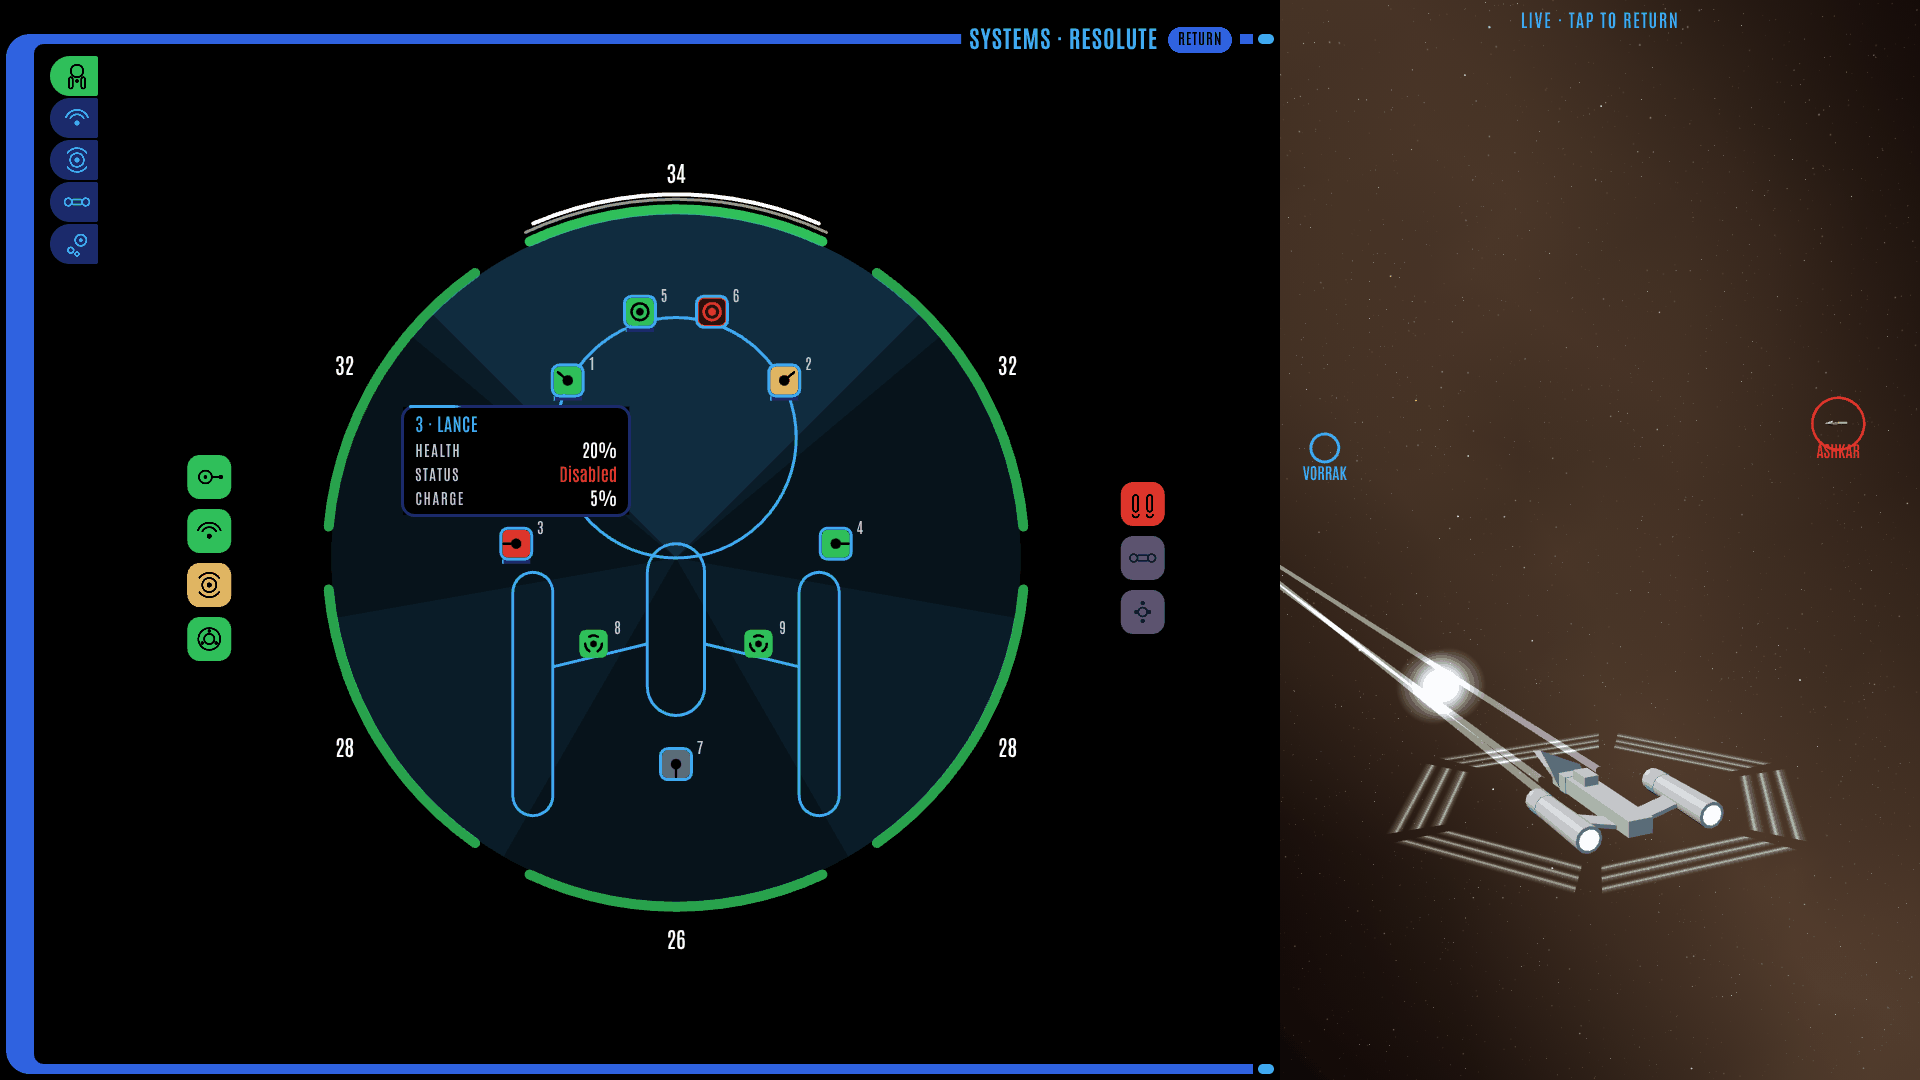
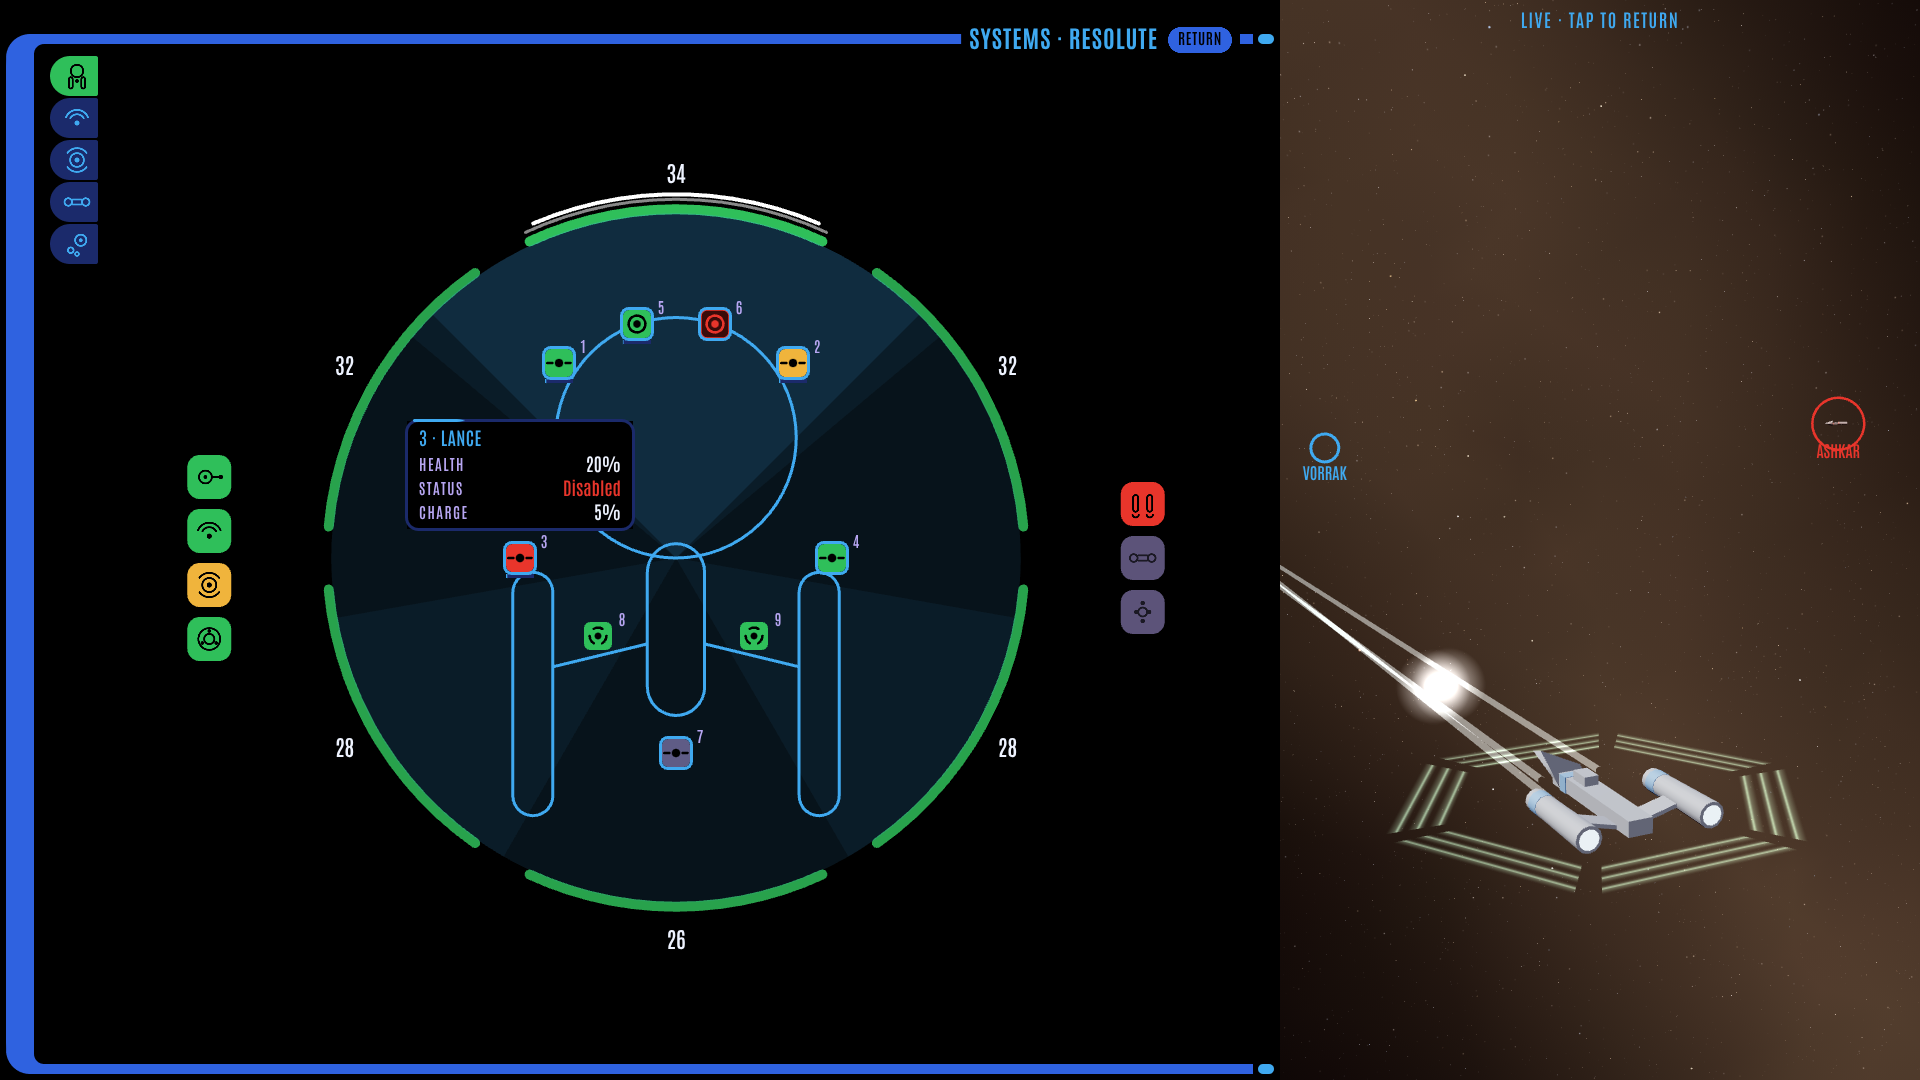
Battle console v15: weapon mounts on a grid, lance glyph without orientation
Claude-Session: https://claude.ai/code/session_01RGPQuqAYNNJKpzbbbZ3BfB

diff --git a/docs/mockups/battle-console.html b/docs/mockups/battle-console.html
@@ -1374,8 +1374,10 @@ function statusBox(x, bx, by, s2, st, rad) {
 // One glyph per weapon type, in Concord's open circles and arcs (nothing pointed).
 function weaponGlyph(x, m, mx, my, r, col) {
   x.fillStyle = col; x.strokeStyle = col; x.lineWidth = Math.max(1.8, r * 0.3);
-  const kind = WEAPONS[m.w].kind, a = -P / 2 + m.arc[0] * DEG;
-  if (kind === 'beam') { x.beginPath(); x.arc(mx, my, r * 0.62, 0, 2 * P); x.fill(); x.beginPath(); x.moveTo(mx + Math.cos(a) * r * 0.62, my + Math.sin(a) * r * 0.62); x.lineTo(mx + Math.cos(a) * r * 1.55, my + Math.sin(a) * r * 1.55); x.stroke(); }
+  const kind = WEAPONS[m.w].kind;
+  // Every glyph is fixed, never turned to its mount's arc (owner: "Phaser shouldn't have orientation because that would
+  // be difficult to standardize for all weapon icons"): the lance is a dot with a short beam either side.
+  if (kind === 'beam') { x.beginPath(); x.arc(mx, my, r * 0.5, 0, 2 * P); x.fill(); x.beginPath(); x.moveTo(mx - r * 1.4, my); x.lineTo(mx - r * 0.75, my); x.moveTo(mx + r * 0.75, my); x.lineTo(mx + r * 1.4, my); x.stroke(); }
   else if (kind === 'torpedo') { x.beginPath(); x.arc(mx, my, r * 0.45, 0, 2 * P); x.fill(); x.beginPath(); x.arc(mx, my, r, 0, 2 * P); x.stroke(); }
   else if (kind === 'bolt') { for (const d of [-1, 1]) { x.beginPath(); x.arc(mx + d * r * 0.5, my, r * 0.48, 0, 2 * P); x.fill(); } }
   else if (kind === 'missile') { x.beginPath(); x.roundRect(mx - r * 0.42, my - r, r * 0.84, r * 2, r * 0.42); x.fill(); }
@@ -1427,14 +1429,17 @@ function drawSSD(x, w, h, s, big, own) {
   // selected mount is ringed in Sky.
   // clearance: the box, its selection ring (4 px each side) and a gap of 3 px, so not even the rings touch
   const mounts = [], mb = big ? 28 : 17, clear = mb + 11;
-  // Boxes never overlap (owner: "make sure weapon icons dont overlap!"): mounts placed closer than a box are pushed
-  // apart, a few passes, the same way every frame.
-  const pos = s.mounts.map((m) => [cx + m.x * L * 0.9, cy - m.y * L]);
-  for (let it = 0; it < 60; it++) for (let a2 = 0; a2 < pos.length; a2++) for (let b2 = a2 + 1; b2 < pos.length; b2++) {
-    const dx = pos[b2][0] - pos[a2][0], dy = pos[b2][1] - pos[a2][1];
-    if (Math.abs(dx) >= clear || Math.abs(dy) >= clear) continue;
-    if (clear - Math.abs(dx) <= clear - Math.abs(dy)) { const pu = (clear - Math.abs(dx)) / 2 * (dx < 0 ? -1 : 1) || clear / 2; pos[a2][0] -= pu; pos[b2][0] += pu; }
-    else { const pu = (clear - Math.abs(dy)) / 2 * (dy < 0 ? -1 : 1) || clear / 2; pos[a2][1] -= pu; pos[b2][1] += pu; }
+  // Mounts sit on a grid (owner, 2026-11-01: "They don't seem to align to a grid"): one cell is a box and its
+  // clearance, centred on the ship's spine, so boxes line up in rows and columns and never overlap (owner: "make sure
+  // weapon icons dont overlap!"). Each mount takes the cell nearest its hull position, rounded the same way on both
+  // sides so a pair stays mirrored; a mount whose cell is taken moves to the nearest free one, on its own side first.
+  const snap = (v) => Math.sign(v) * Math.round(Math.abs(v) / clear), taken = new Set(), pos = [];
+  for (const m of s.mounts) {
+    const c0 = snap(m.x * L * 0.9), r0 = snap(-m.y * L), side = Math.sign(m.x), cand = [];
+    for (let dc = -3; dc <= 3; dc++) for (let dr = -3; dr <= 3; dr++) cand.push([c0 + dc, r0 + dr, Math.hypot(dc, dr) + (side && Math.sign(dc) === -side ? 0.01 : 0)]);
+    cand.sort((p1, p2) => p1[2] - p2[2]);
+    const [c, r] = cand.find(([c1, r1]) => !taken.has(c1 + ',' + r1));
+    taken.add(c + ',' + r); pos[m.i] = [cx + c * clear, cy + r * clear];
   }
   for (const m of s.mounts) {
     const [mx, my] = pos[m.i], bx = mx - mb / 2, by = my - mb / 2, st = mountStatus(s, m);
@@ -1786,7 +1791,7 @@ function uiView() {
     const tg = inBox(bx + 14, by + 44, ir[2] - 28, ir[3] - 52, (c, w, h) => drawSSD(c, w, h, t, false, false)); ssdHits('tgt', bx + 14, by + 44, tg, t, false);
   }
   if (lock) button('v.lock', lock[0], lock[1], 140, 30, 'Lock target', () => A.lock(lock[2]), { center: true });
-  LBL('Mockup 2 · Battle console · Concord · v14', vx + vw - 104, vy + vh - 20, 0, '#6f7fb4', 'right', 13);
+  LBL('Mockup 2 · Battle console · Concord · v15', vx + vw - 104, vy + vh - 20, 0, '#6f7fb4', 'right', 13);
   button('v.reset', vx + vw - 92, vy + vh - 42, 78, 30, 'Reset', A.reset, { center: true });
 }
 // Mockup only: a heavy hit on your ship from the nearest enemy, to watch the boxes change as damage lands.

diff --git a/docs/mockups/tracker.html b/docs/mockups/tracker.html
@@ -111,7 +111,7 @@ const MOCKUPS = [
     url: 'https://claude.ai/artifact/UBbAouwAU3JvcbGf6MhzLt', published: '2026-10-30', version: 5,
     summary: 'Main menu, skirmish (scenario, point budget, fleet and loadout), the campaign hex map with standees, port panels and missions, deploy, a stand-in battle, results, and back to the map.' },
   { id: 'M2', title: 'In-game UI', change: 'battle-console', page: 'docs/mockups/battle-console.html',
-    url: 'https://claude.ai/artifact/9yertq3bYQRmFiDE7N9eBs', published: '2026-11-01', version: 14,
+    url: 'https://claude.ai/artifact/9yertq3bYQRmFiDE7N9eBs', published: '2026-11-01', version: 15,
     summary: 'The battle console in the Concord skin around a live stand-in battle, desktop first: nine stations and five ship pages on narrow columns of icon tabs named on hover, the ship systems display, weapons, radar and tactical map, a speed handle, Power over Systems with the battery, and the power station\'s Reactor mode: a diagram of the core, coils and coolant loops worked by hand, with a meltdown to avoid. Every panel works and expands.' },
   { id: 'M3', title: 'Look dev', change: 'look-dev', page: 'docs/mockups/look-dev.html',
     url: '', published: '', version: 0,

diff --git a/openspec/changes/battle-console/design.md b/openspec/changes/battle-console/design.md
@@ -102,7 +102,7 @@ will be.
 the side, show subsystems, as well. Tooltips: when I hover over subsystem or weapon box: show what subsystem name is,
 health, status"). On the ship systems display (own and in the Target box, one drawing):
 
-- **A glyph per weapon type**, in Concord's open circles and arcs: lance, a dot with a short line along its arc's centre;
+- **A glyph per weapon type**, in Concord's open circles and arcs: lance, a dot with a short beam either side (fixed: no glyph turns with its mount's arc);
   pulse torpedo, a dot in a ring; disruptor, two dots; missile, a capsule; point defence, a dot in three arcs. Its colour
   is its state (offline deep, charging Signal with the charge drawn round it, ready Accord, overload Lilac, disabled or
   destroyed Alert); a selected mount is ringed in Sky.
@@ -118,8 +118,10 @@ icons here, instead of circle icons I prefer square with iconography inside", "s
 
 - The facing turned toward the enemy (yours toward your target, the target's toward you) has a **white arc** above it.
 - Mounts are **square boxes** with the weapon's glyph inside: glyph colour for its state, the box outlined in its status
-  colour when not Active, the charge as a bar under it, a Sky ring when selected. Mounts closer than a box, its selection ring and a 3 px gap are **pushed
-  apart** (a few passes, the same every frame), so no box overlaps another.
+  colour when not Active, the charge as a bar under it, a Sky ring when selected. Mounts sit on a **grid** (owner, 2026-11-01:
+  "They don't seem to align to a grid"): one cell is a box, its selection ring and a 3 px gap, centred on the ship's
+  spine. Each mount takes the cell nearest its hull position, rounded alike on both sides so pairs stay mirrored; a
+  taken cell sends it to the nearest free one, its own side first. Boxes line up in rows and columns and never overlap.
 - **Shield strength**: in the 3D view as layers, strong (over 66 %) three green bands, middling two amber, weak one
   red; on the console one band per facing in the same colour (owner: "to avoid clutter. The UI itself should display 1
   layer. Where the game should display multiple"). An empty or lowered facing is a single dark line.

diff --git a/mockup-work.md b/mockup-work.md
@@ -22,7 +22,7 @@ account and every link here is updated.
 | # | Mockup | Stage | OpenSpec change | Page | Link |
 |---|---|---|---|---|---|
 | 1 | Primary game flow | Drafted (2026-10-30, v5) | `game-flow` | `docs/mockups/game-flow.html` | https://claude.ai/artifact/UBbAouwAU3JvcbGf6MhzLt |
-| 2 | In-game UI | Drafted (2026-11-01, v14) | `battle-console` | `docs/mockups/battle-console.html` | https://claude.ai/artifact/9yertq3bYQRmFiDE7N9eBs |
+| 2 | In-game UI | Drafted (2026-11-01, v15) | `battle-console` | `docs/mockups/battle-console.html` | https://claude.ai/artifact/9yertq3bYQRmFiDE7N9eBs |
 | 3 | Look dev | Listed | `look-dev` (to write) | `docs/mockups/look-dev.html` | |
 | 4 | Console skins | Drafted (2026-10-31, v25) | `console-skins` | `docs/mockups/console-skins.html` | https://claude.ai/artifact/UTpgsPvZJrLfkEUmJN7CVb |
 

diff --git a/docs/artifacts/battle-console/README.md b/docs/artifacts/battle-console/README.md
@@ -32,3 +32,4 @@
 - Version 12 published 2026-11-01, version id `1793560162-8b98`: the shield page's facings as big trapezoid keys, the reinforced one lit.
 - Version 13 published 2026-11-01 (version ids `1793560287-49e6`, then the overlap fix): shield keys fill with their charge, numbers on hover; weapon boxes spaced so even their selection rings never touch (checked headless: no two weapon rectangles overlap).
 - Version 14 published 2026-11-01, version id `1793563480-96e9`: weapon and subsystem boxes filled solid in their status colour; Take a hit in the menu.
+- Version 15 published 2026-11-01, version id `1793564103-a559`: weapon mounts snapped to a grid (rows and columns, mirrored pairs); the lance glyph fixed, no longer turned to its arc.
